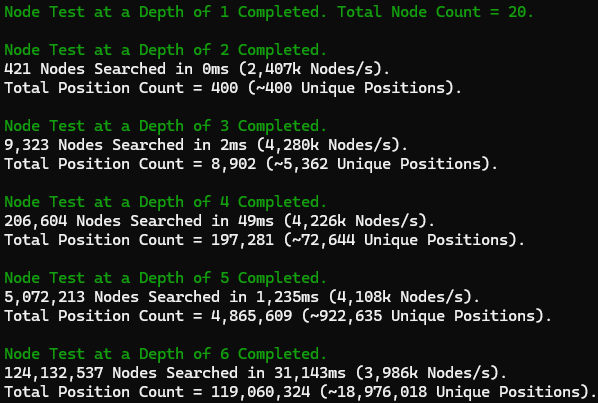
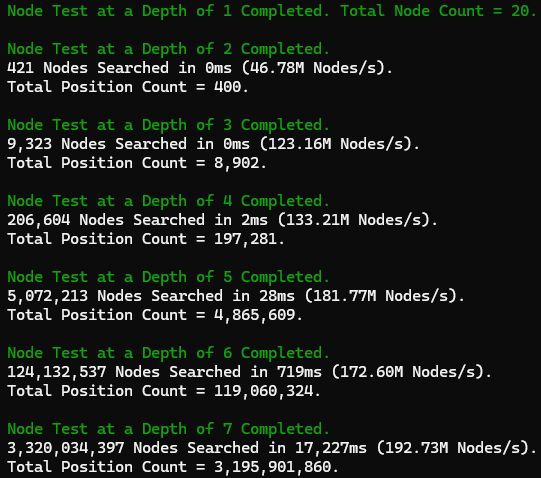
Updated README

Changed region(s): [[0.0, 0.0891, 0.9168, 0.8317], [0.0, 0.8614, 1.0, 1.0], [0.0, 0.0, 0.976, 0.0594]]

diff --git a/README.md b/README.md
@@ -7,7 +7,7 @@
 
 ---
 
-v10.0 of my commercial-quality **Chess AI Project**, originally for my A-Level Computer Science NEA (which my supervisor called the "best he had ever seen" in his years of teaching), for which I was awarded 100%. This features a strong Artificial Intelligence (built upon a highly-optimised, original NegaMax algorithm), created around a sophisticated chess-playing interface, packed to the brim with classic and original ideas.
+v10.0 of my commercial-quality **Chess AI Project**, originally for my A-Level Computer Science NEA (which my supervisor called the "best he had ever seen" in his years of teaching), for which I was awarded 100%. This features a strong Artificial Intelligence (built upon a highly-optimised, original NegaMax algorithm), created around a sophisticated chess-playing interface, packed to the brim with classic and original ideas alike.
 > **Online Rating:** ~2850 ELO (Lichess).  
 **Puzzle Rating:** ~3125 ELO (hand-crafted database from Lichess).
 
